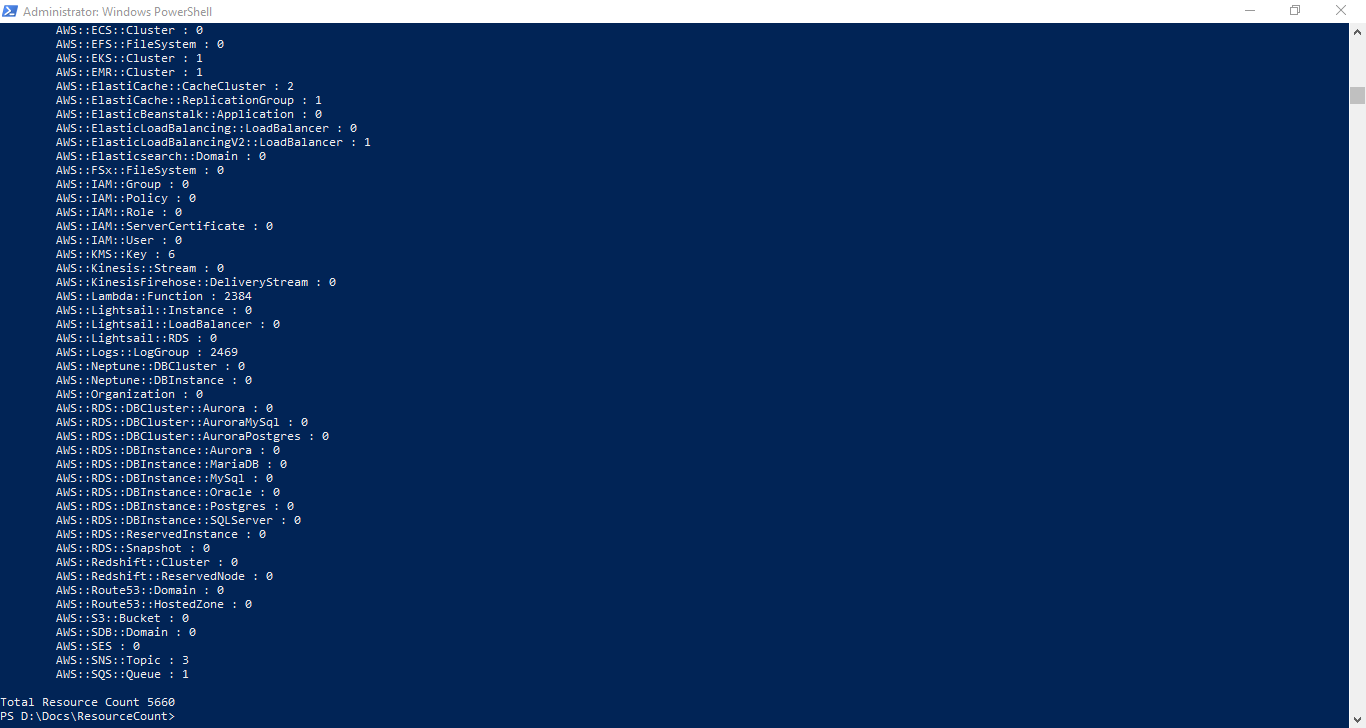
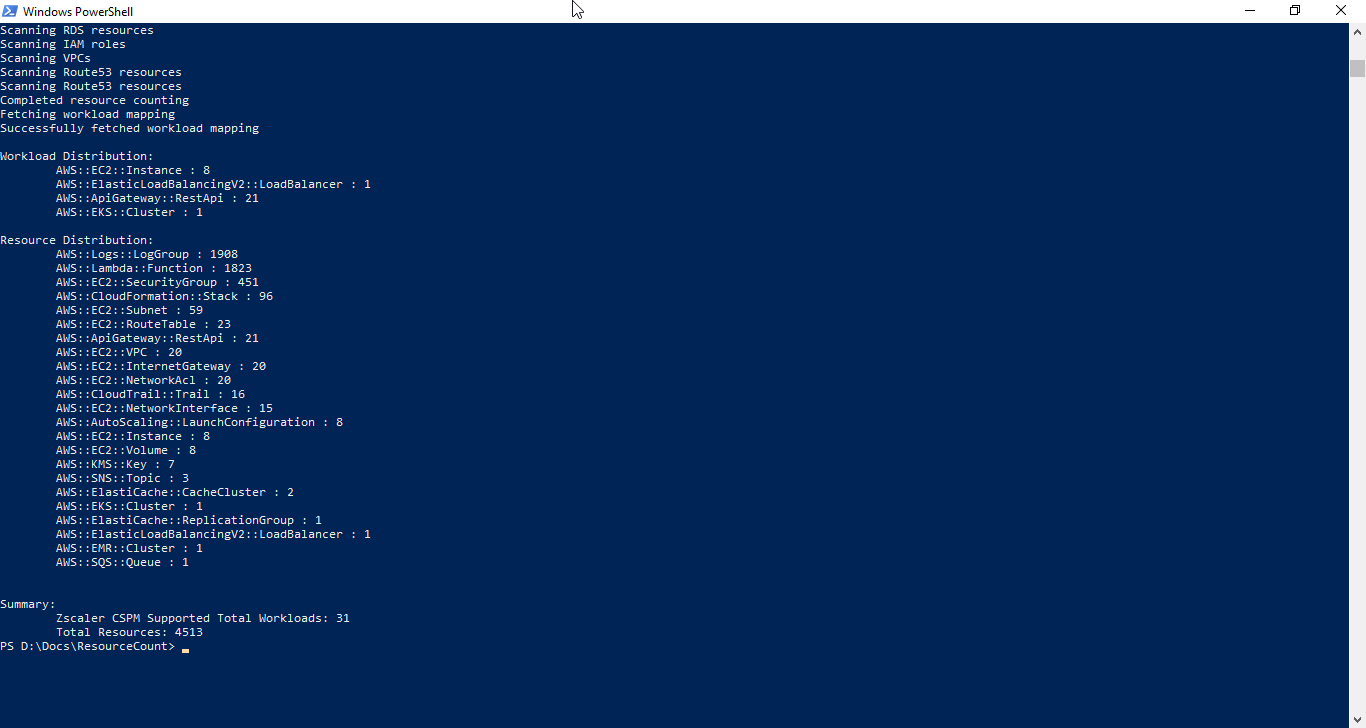
Task 20258 Resource count screenshot and content updated

Changed region(s): [[0.0, 0.0, 0.246, 0.9973], [0.9839, 0.0604, 1.0, 0.1511]]

diff --git a/docs/tryAndBuy/estimatePricing.md b/docs/tryAndBuy/estimatePricing.md
@@ -48,7 +48,9 @@ Login to [Azure portal](https://portal.azure.com){target=_blank} as Subscription
 
        .\Get-AzureResourceCount.ps1 -SubscriptionId <subscriptionId>
 
-4.	Output will have protected workloads counts and all resource categories listed along with resource count.
+       ![Azure Resources](.././images/azureMarketplace/Azure_Resource_Count_Script.png#thumbnail)
+
+5.	Output will have protected workloads counts and all resource categories listed along with resource count.
 
     ![Azure Resources](.././images/azureMarketplace/Azure_Resource_Count_Auot.png#thumbnail)
 
@@ -81,6 +83,8 @@ an AWS account.
 1. Run below command to get the count
 
         python .\count_aws_resources.py --accessKey <aws_access_key> --secretKey <aws_secret_key>
+
+    ![AWS Resources](.././images/azureMarketplace/AWS_Resource_Count_Script.png#thumbnail)
 
 2. Output will have protected workloads and all services listed along with resource count for the given AWS account.
 
